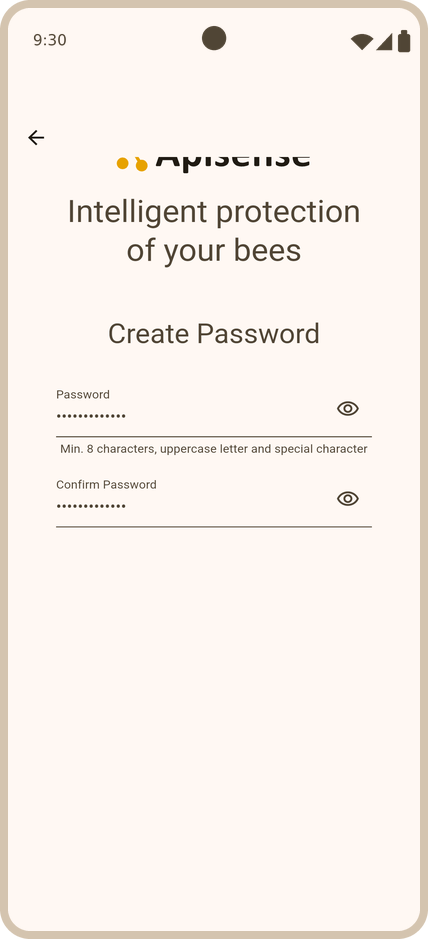
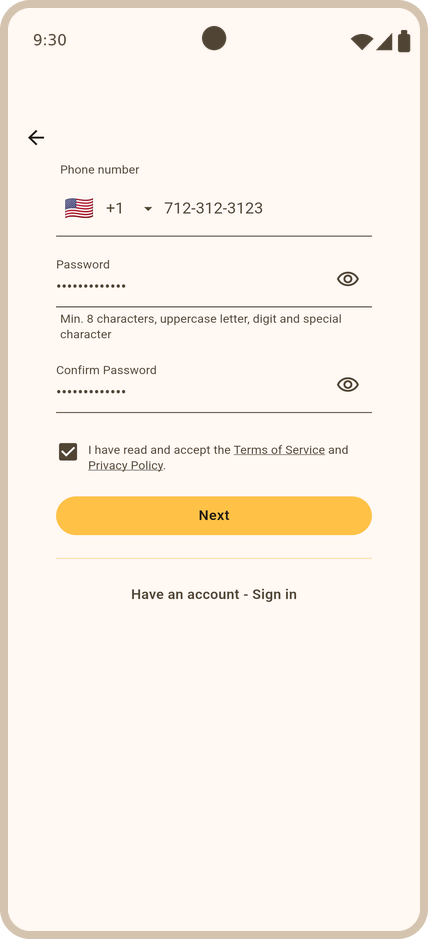
docs(manual): odświeżone screenshoty rejestracji + nowa rycina kroku ColonyLink (#78)

diff --git a/docs/manual/app-manual.pl.md b/docs/manual/app-manual.pl.md
@@ -41,28 +41,30 @@ Figure: Rejestracja do Systemu Apisense Pro AI - widok startowy Załóż konto {
 
 ![figure](pictures/rejestracja.png){width=200}
 
-- W wyznaczonych polach wprowadź następujące dane:
+- Wszystkie dane rejestracyjne — łącznie z hasłem — podajesz w **jednym formularzu** *Załóż konto*. Nie ma osobnego widoku *Utwórz hasło*. W wyznaczonych polach wprowadź ([](#fig-zaloz-konto)):
 
-    - Nazwa użytkownika
+    - Nazwa użytkownika — od 3 do 50 znaków, bez spacji
     - Adres email
     - Numer telefonu komórkowego
-
-    Potwierdź zapoznanie się z regulaminem oraz polityką prywatności zaznaczając odpowiednie pole, a następnie kliknij przycisk *Dalej* ([](#fig-zaloz-konto)).
+    - Hasło — którego będziesz potem używać, by zalogować się do systemu
+    - Powtórz hasło — to samo hasło jeszcze raz
 
 Figure: Rejestracja do Systemu Apisense Pro AI - przykład poprawnie wypełnionych danych do rejestracji w widoku Załóż konto {#fig-zaloz-konto}
 
 ![figure](pictures/zaloz_konto.png){width=200}
 
-- Zostanie wyświetlony kolejny widok - Utwórz hasło. W tym widoku zostaniesz poproszony o utworzenie silnego hasła ([](#fig-utworz-haslo)), które będziesz potem wykorzystywał, by zalogować się do systemu. Hasło musi zawierać:
+- Hasło musi zawierać:
 
     - Co najmniej 8 znaków
     - Co najmniej 1 wielką literę
     - Co najmniej 1 cyfrę
     - Co najmniej 1 znak specjalny (np. #, $, %, \_)
 
-    Następnie wpisz ponownie to samo hasło w pole *Powtórz hasło* i przejdź do kolejnego kroku klikając przycisk *Dalej*.
+    Te same wymagania aplikacja przypomina podpowiedzią pod polem *Hasło*.
 
-Figure: Rejestracja do Systemu Apisense Pro AI - przykład poprawnie wypełnionych pól w widoku Utwórz hasło {#fig-utworz-haslo}
+- Formularz jest dłuższy niż ekran — przewiń go w dół, aby dojść do pól hasła, pola potwierdzenia regulaminu i przycisku *Dalej* ([](#fig-utworz-haslo)). Potwierdź zapoznanie się z regulaminem oraz polityką prywatności zaznaczając odpowiednie pole, a następnie kliknij przycisk *Dalej*.
+
+Figure: Rejestracja do Systemu Apisense Pro AI - ten sam widok Załóż konto po przewinięciu w dół: pola hasła, akceptacja regulaminu i przycisk Dalej {#fig-utworz-haslo}
 
 ![figure](pictures/utworz_haslo.png){width=200}
 
@@ -288,7 +290,7 @@ Etap wyposażenia to od jednego do trzech osobnych ekranów, zawsze w tej samej 
 
 #### 2.1.1 Krok ColonyLink
 
-- Po informacjach o matce zostanie wyświetlony ekran *Wyposażenie - zeskanuj kod QR z Apisense ColonyLink*. Wypełnij pola:
+- Po informacjach o matce zostanie wyświetlony ekran *Wyposażenie - zeskanuj kod QR z Apisense ColonyLink* ([](#fig-add-beehive-devices-colonylink)). Wypełnij pola:
 
     - **ColonyLink** - kliknij w ikonę kodu QR znajdującą się w prawej części tego pola i zeskanuj kod QR z Apisense ColonyLink. Kolejne pole *Kod potwierdzający* zostanie wypełnione automatycznie.
     - **Kod potwierdzający** - zostanie wypełniony automatycznie, po poprawnym zeskanowaniu kodu QR.
@@ -297,6 +299,10 @@ Etap wyposażenia to od jednego do trzech osobnych ekranów, zawsze w tej samej 
 
 !!! note
     W niektórych planach ColonyLink jest opcjonalny. Poznasz to po komunikacie *„ColonyLink jest opcjonalny w Twoim planie — możesz pominąć ten krok"*, wyświetlanym pod nagłówkiem ekranu. Wtedy możesz zostawić oba pola puste i przejść dalej. Nie da się natomiast wypełnić tylko jednego z nich — albo oba, albo żadne.
+
+Figure: Dodawanie ula w systemie - sekcja Wyposażenie - przypisywanie urządzenia ColonyLink (w planie, w którym krok jest opcjonalny) {#fig-add-beehive-devices-colonylink}
+
+![figure](pictures/add_beehive_devices_colonylink.png){width=200}
 
 - To, co dzieje się po tym kroku, zależy od pasieki:
 

diff --git a/docs/manual/app-manual.en.md b/docs/manual/app-manual.en.md
@@ -48,28 +48,30 @@ Figure: Registering with the Apisense Pro AI System - Create account start view 
 
 ![figure](pictures/rejestracja.png){width=200}
 
-- Enter the following details in the designated fields:
+- All registration details — the password included — are entered in a **single** *Create account* form. There is no separate *Create password* view. Fill in the designated fields ([](#fig-zaloz-konto)):
 
-    - User name
+    - User name — 3 to 50 characters, no spaces
     - Email address
     - Mobile phone number
-
-    Confirm that you have read the terms and conditions and the privacy policy by checking the appropriate box, and then click *Next* ([](#fig-zaloz-konto)).
+    - Password — the one you will then use to log in to the system
+    - Repeat password — the same password once more
 
 Figure: Registering with the Apisense Pro AI System - example of correctly filled-in registration data in the Create account view {#fig-zaloz-konto}
 
 ![figure](pictures/zaloz_konto.png){width=200}
 
-- The next view will appear - Create password. In this view you will be asked to create a strong password ([](#fig-utworz-haslo)), which you will then use to log in to the system. The password must contain:
+- The password must contain:
 
     - At least 8 characters
     - At least 1 uppercase letter
     - At least 1 digit
     - At least 1 special character (e.g. #, $, %, \_)
 
-    Then enter the same password again in the *Repeat password* field and proceed to the next step by clicking *Next*.
+    The app repeats the same requirements in the hint below the *Password* field.
 
-Figure: Registering with the Apisense Pro AI System - example of correctly filled-in fields in the Create password view {#fig-utworz-haslo}
+- The form is longer than the screen — scroll down to reach the password fields, the terms checkbox and the *Next* button ([](#fig-utworz-haslo)). Confirm that you have read the terms and conditions and the privacy policy by checking the appropriate box, and then click *Next*.
+
+Figure: Registering with the Apisense Pro AI System - the same Create account view scrolled down: password fields, terms acceptance and the Next button {#fig-utworz-haslo}
 
 ![figure](pictures/utworz_haslo.png){width=200}
 
@@ -291,7 +293,7 @@ The equipment stage consists of one to three separate screens, always in the sam
 
 #### 2.1.1 The ColonyLink step
 
-- After the queen information, the *Equipment - scan the QR code from Apisense ColonyLink* screen is displayed. Fill in the fields:
+- After the queen information, the *Equipment - scan the QR code from Apisense ColonyLink* screen is displayed ([](#fig-add-beehive-devices-colonylink)). Fill in the fields:
 
     - **ColonyLink** — click the QR code icon on the right side of this field and scan the QR code from the Apisense ColonyLink. The next *Confirmation code* field will be filled in automatically.
     - **Confirmation code** — filled in automatically after a successful QR scan.
@@ -300,6 +302,10 @@ The equipment stage consists of one to three separate screens, always in the sam
 
 !!! Note
     On some plans ColonyLink is optional. You will recognise this by the message *"ColonyLink is optional on your plan — you can skip this step"* shown under the screen heading. In that case you may leave both fields empty and continue. You cannot, however, fill in just one of them — either both or neither.
+
+Figure: Adding a hive — Equipment section, linking ColonyLink (on a plan where the step is optional) {#fig-add-beehive-devices-colonylink}
+
+![figure](pictures/add_beehive_devices_colonylink.png){width=200}
 
 - What happens after this step depends on the apiary:
 
